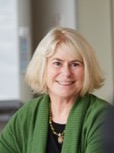
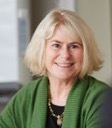
added pictures, start on later slides

diff --git a/slides/1-intro.html b/slides/1-intro.html
@@ -94,14 +94,13 @@
           </hgroup>
   </slide>
 
-<!--( Clean up adding figures
-\centering
-![Mining temporal data](../figures/minMASEsep.png)
-\raggedright
-\clearpage
-)-->
+<slide class=''><hgroup><h2>Instructors</h2></hgroup><article  id="instructors">
 
-<slide class=''><hgroup><h2>What is business analytics?</h2></hgroup><article  id="what-is-business-analytics">
+<p><img src='../figures/souhaib.jpg' title=''/> <img src='../figures/di.jpg' title=''/> <img src='../figures/rob.jpg' title=''/></p>
+
+<p>Souhaib Ben Taieb, Di Cook, Rob Hyndman</p>
+
+</article></slide><slide class=''><hgroup><h2>What is business analytics?</h2></hgroup><article  id="what-is-business-analytics">
 
 <p>Business analytics involves using exploring data to obtain new insights and understanding of business performance. It involves exploratory data analysis, visualization and statistical methods.</p>
 
